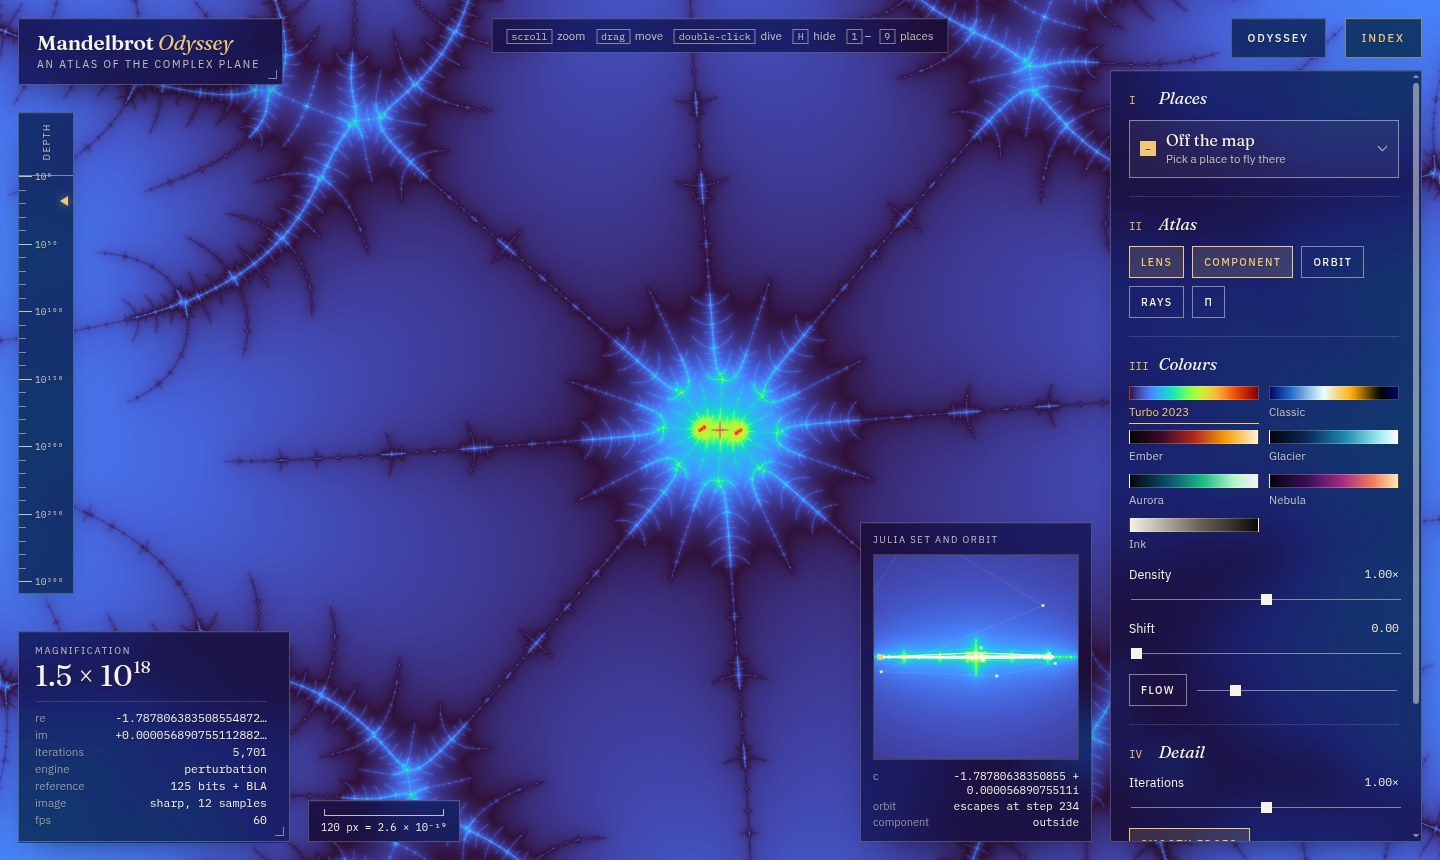
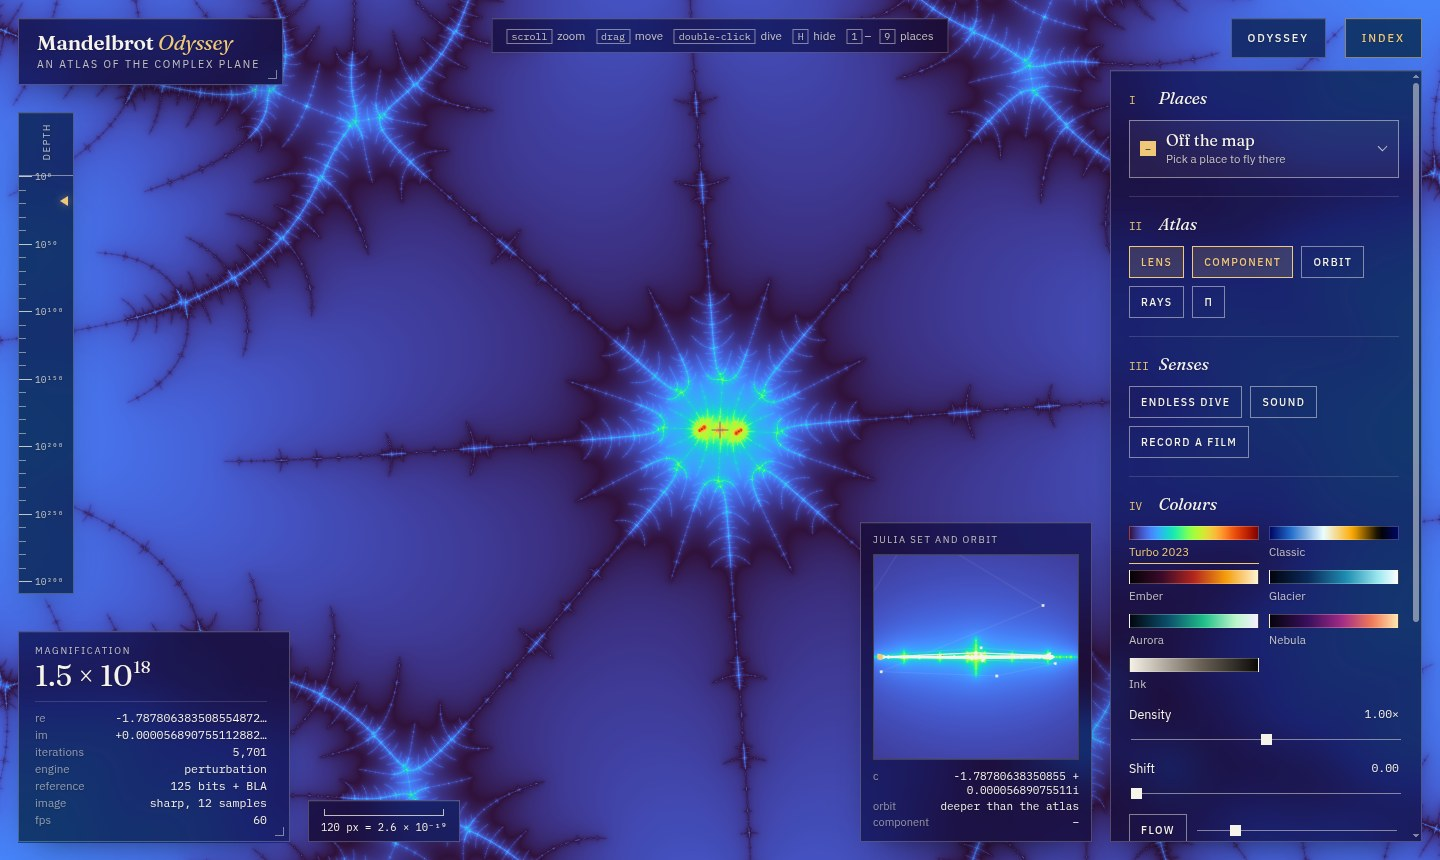
add: the senses in the readme, new screenshots

diff --git a/README.md b/README.md
@@ -1,6 +1,6 @@
 # Mandelbrot Odyssey
 
-A real-time journey into the Mandelbrot set, computed live on your graphics card. Scroll into a spiral, fly to the famous places of the set, dive to a magnification of 10³⁰⁰, smoothly, and read the mathematics of what you see in a live atlas: Julia sets, orbits, periods, external rays, and π. Or follow the Odyssey, a story in eight chapters told by the explorer itself.
+A real-time journey into the Mandelbrot set, computed live on your graphics card. Scroll into a spiral, fly to the famous places of the set, dive to a magnification of 10³⁰⁰, smoothly, and read the mathematics of what you see in a live atlas: Julia sets, orbits, periods, external rays, and π. Or follow the Odyssey, a story in eight chapters told by the explorer itself, let the endless dive carry you from minibrot to minibrot down to 10²⁰⁰ and beyond, listen to the orbits, and save the dive as a film.
 
 ## Installation
 
@@ -62,6 +62,10 @@ npm start
 
 *The Odyssey, chapter III. The story frames each place in the part of the screen it leaves free, switches on the layers that explain it, and checks its task live: here the pointer has found a bulb of period 5, whose Julia set the lens shows with its five-pointed orbit.*
 
+![The endless dive on a minibrot of period 833, 10^57 times closer](docs/screenshots/dive.jpg)
+
+*The endless dive, resting on its fifth minibrot: a copy of the whole set, of period 833, 3 × 10⁵⁷ times closer, drawn with 254 900 iterations per pixel. It has already found the next one.*
+
 ![The atlas: the Julia set of the period-3 bulb, its external rays and Lavaurs' diagram](docs/screenshots/atlas.jpg)
 
 *The atlas. The pointer is in the bulb of period 3 at the top: the lens shows its Julia set, Douady's rabbit, and the orbit of 0 settling on a cycle of 3 points. The ring marks the component, and the rays 1/7 and 2/7, which land at its root, are lit, along with their chord in Lavaurs' diagram.*
@@ -101,6 +105,9 @@ npm start
 - **Fly to famous places.** Seahorse valley, a double spiral, elephant valley, a minibrot copy of the whole set, the dendrite at c = i, the end of the original 2023 script at 10¹⁸, and the bottom of the map at 10²⁹⁰. A flight to a place out of sight first pulls back until it is in view, then dives, faster the deeper it goes: 10¹⁸ in about five seconds, 10²⁹⁰ in under twenty.
 - **Follow the Odyssey.** Eight short chapters, from the one rule of the set to the bottom of the map at 10²⁹⁰: one rule, connected or dust, bulbs and periods, a map of rays, π in seahorse valley, copies of itself, diving, the bottom of the map. Each flies to its place and gives a small task, checked as you move. Every chapter has its own link, such as `#chapter=5`.
 - **Read the atlas.** Move the pointer and the lens shows the Julia set of that point, with the orbit of 0 drawn on it: connected inside the set, dust outside. The component under the pointer is ringed, with its period and size, found by Newton's method. Turn on the external rays to see the rays of every component up to period 6, labelled by their angles, and Lavaurs' diagram, the map of how they pair: pick a chord and the explorer flies to its component. The π experiment shows why π appears in seahorse valley and at the cusp.
+- **Dive for ever.** The endless dive flies from minibrot to minibrot, each about twice as deep as the last, through the embedded Julia sets between them, down to 10²⁰⁰ and beyond; at the bottom of the map it surfaces and dives again elsewhere. Press <kbd>D</kbd>.
+- **Listen.** With the sound on, the orbit of the point under the pointer becomes a melody: a cycle of period p is a loop of p notes, an escaping orbit glides away. During the dive you hear the nucleus of the minibrot ahead. Press <kbd>M</kbd>.
+- **Make a film.** *Record a film* renders the dive from the whole set to the current view, one sharp frame at a time, as the script of 2023 did, and saves it as an MP4 in Full HD.
 - **Colour it.** Seven palettes, including *Turbo 2023*, the colours of the original script: 150 steps of Turbo, up and back down. Change the density and the shift, or let the colours flow. Colours change instantly, without recomputing the image.
 - **Always smooth.** While you move, the image is computed at a lower resolution that fits in the frame budget. When you stop, it sharpens, then smooths its edges with up to 12 samples per pixel.
 - **Share it.** The address always holds the current view: copy the link and anyone opens the same place, with the same colours. Save the image as a PNG.
@@ -115,6 +122,8 @@ npm start
 | <kbd>←</kbd> <kbd>→</kbd> <kbd>↑</kbd> <kbd>↓</kbd> | move |
 | <kbd>+</kbd> <kbd>−</kbd> | zoom on the centre |
 | <kbd>1</kbd>–<kbd>9</kbd> | famous places |
+| <kbd>D</kbd> | the endless dive |
+| <kbd>M</kbd> | the sound of orbits |
 | <kbd>C</kbd> | flowing colours |
 | <kbd>S</kbd> | save the image |
 | <kbd>H</kbd> | hide the panels |
@@ -139,7 +148,11 @@ Graphics cards compute in 32-bit floats, which blur the image past a magnificati
 
 **The atlas.** The lens draws the Julia set of c on a second, small WebGL canvas. The period of a point inside the set is that of the cycle its orbit settles on; outside, that of the step where its orbit came nearest to 0. Newton's method on z_p(c) = 0 then finds the nucleus of the component, and a classic estimate its size. External rays are traced inwards by Newton's method on z_n(c) = R^(2^(n−1−m)) e^(2πi 2^(n−1) θ), level after level, in a worker; rays that land at a parabolic root approach it slowly, so each one is followed for 300 doublings. Lavaurs' algorithm pairs the angles k / (2^p − 1) of each period without crossing the chords already drawn, and finds exactly the 1, 3, 6, 15 and 27 components of periods 2 to 6.
 
-**Depth.** The limit is a magnification of about 10³⁰⁰, where the size of a pixel stops being an ordinary double. One case is still slow: deep inside a minibrot of small period, every pixel runs all its iterations, and no approximation holds across the returns of its orbit to zero, so the image sharpens in seconds rather than at once.
+**The endless dive.** A box of the plane contains the nucleus of a minibrot of period p when the orbits of its four corners first surround 0 at step p. Newton's method on z_p(c) = 0, in fixed point, then places the nucleus, refined to a fraction of its own size, and the size estimate gives the copy's scale and turn. Inside the copy every minibrot is a tuned copy whose period is a multiple of p, so the dive looks just outside it, in boxes on circles a few sizes away, where embedded Julia sets hold minibrots about twice as deep with a period only a few times longer. It keeps one of those that gain the most depth for the least growth of period: periods 3, 7, 25, 77, 419, 3008 take it from 10⁻² to 10⁻¹⁰¹. Every step is computed in a worker while the camera flies to the previous one.
+
+**Inside a minibrot.** A reference at a nucleus has an orbit one period long that ends back at 0: the pixels rebase onto its start at each period. Inside the copy, a pixel then comes back to the same offset at every return; two returns that agree to 2⁻²⁰ mark it as inside, and it stops. Outside, near the copy, an orbit makes about one turn of the period for each step the whole set would take, so a view of a deep copy needs hundreds of periods, millions of iterations, which the approximations reduce to a few hundred steps per pixel. The image in motion lowers its iterations when even the smallest preview would be late, and the image at rest batches more rows into each frame when a single row is already as slow as a whole one.
+
+**Depth.** The limit is a magnification of about 10³⁰⁰, where the size of a pixel stops being an ordinary double.
 
 ```
 src/math/fixed.ts        numbers in fixed point on BigInt, for centres beyond double precision
@@ -150,6 +163,9 @@ src/math/view.ts         view, zoom around a point, flights
 src/math/atlas.ts        orbits, periods, nuclei, sizes, external rays, Lavaurs' diagram, π (tested)
 src/atlas/               the lens, the drawings over the image, Lavaurs' diagram, the atlas worker
 src/story/               the eight chapters of the Odyssey and their tasks (tested), the story plate
+src/math/minibrot.ts     the period of a box, nuclei by Newton in fixed point, sizes (tested)
+src/dive/                the plan of the endless dive (tested), its worker, the camera
+src/senses/              the sound of orbits, the films
 src/render/shaders.ts    the same iteration in GLSL, colouring, display
 src/render/reference.ts  which reference to draw with, and when to ask for a new one
 src/render/orbit-worker.ts  deep orbits and their tables, off the page
@@ -176,12 +192,13 @@ The site runs locally. `.github/workflows/ci.yml` runs the tests and the build o
 - [x] **Phase 2.** Deep zoom to 10³⁰⁰: arbitrary-precision reference in a worker, offsets that carry their own exponent, bilinear approximation, the 2023 dive to 10¹⁸.
 - [x] **Phase 3.** Atlas: Julia sets and orbits under the pointer, periods and sizes of components, external rays, Lavaurs' diagram, π in seahorse valley.
 - [x] **Phase 4.** Odyssey: an interactive story in eight chapters, driven by the live explorer, with live tasks.
-- [ ] **Phase 5.** Senses: orbits as sound, an endless automatic dive, video export.
+- [x] **Phase 5.** Senses: the endless dive through embedded Julia sets, the inside of minibrots detected, orbits as sound, films in MP4.
 - [ ] **Phase 6.** Buddhabrot, 3D relief, other fractals.
 
 ## Credits
 
 - The Turbo colormap is by Google (Apache-2.0), read from OpenCV's `COLORMAP_TURBO`.
+- Films are written to MP4 with [Mediabunny](https://mediabunny.dev) (MPL-2.0), over the WebCodecs of the browser.
 - Perturbation for deep zoom was introduced by K. I. Martin. Rebasing and the bilinear approximation were introduced by Zhuoran on Fractal Forums. The continuous count follows Inigo Quilez's article on smooth iteration.
 - π in seahorse valley was found by Dave Boll in 1991. Lavaurs' diagram and its algorithm are due to Pierre Lavaurs (1986). Tracing external rays by Newton's method follows Tomoki Kawahira's algorithm.
 - The original 2023 script, kept in [`legacy/`](legacy/), rendered this zoom one image at a time with 80-bit arithmetic.
